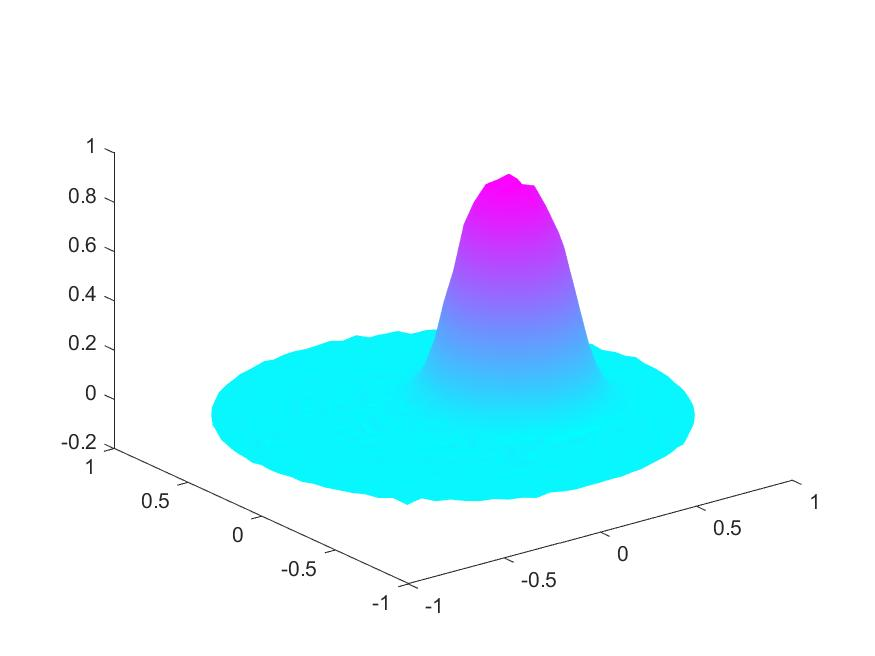
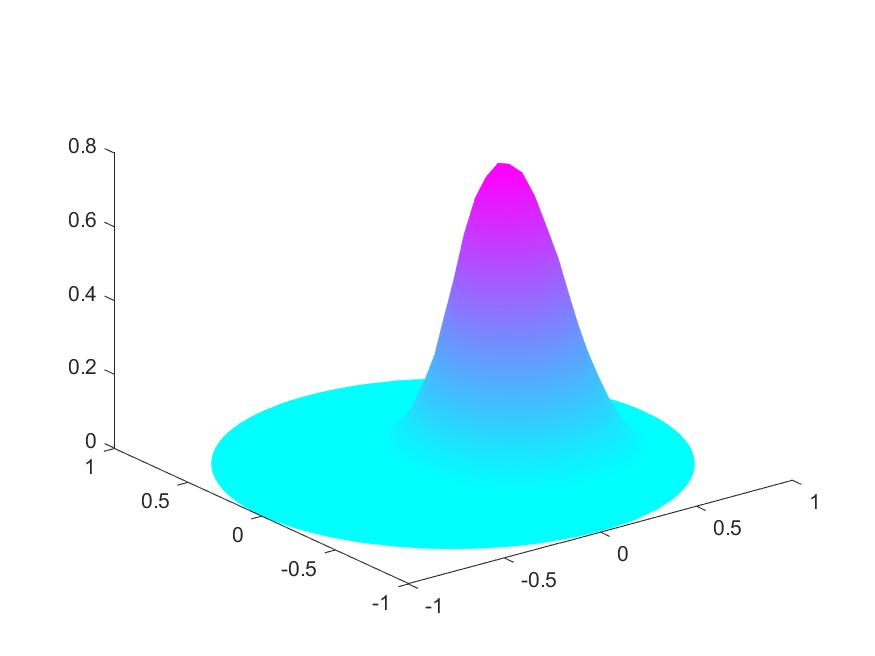
fixed rv method :)
it may not be correct, but we can't say with certainty that it's incorrect

diff --git a/FEM_Assign1/Code/ConvectionMatrixRV.m b/FEM_Assign1/Code/ConvectionMatrixRV.m
@@ -2,6 +2,7 @@ function convectionMatrix = ConvectionMatrixRV(p, t, u, r)
     np=size(p,2); nt=size(t,2); 
     convectionMatrix=sparse(np,np);
     normFac = NormalizationFactor(p, t, u);
+    ekv = zeros(np, 1);
     for i=1:nt 
         nodeIndices=t(1:3,i); 
         x=p(1,nodeIndices); y=p(2,nodeIndices); 
@@ -11,11 +12,21 @@ function convectionMatrix = ConvectionMatrixRV(p, t, u, r)
         betak = ElementBetaK(x, y);
         rk = max(r(nodeIndices));
         ek = MeshArtificialViscosity(hk, betak, rk, normFac);
-                
-        subMatrix=(b*b')*(c+c')*area*ek;
+        ekv(nodeIndices) = max(ekv(nodeIndices), ek);
+                        
+        subMatrix=((b*b')+(c*c'))*area*ek;
         
         convectionMatrix(nodeIndices,nodeIndices)=convectionMatrix(nodeIndices,nodeIndices)+subMatrix;
     end
+    
+    figure(9);
+    pdesurf(p, t, ekv);
+    hold on;
+    line([0,1.5],[0,0],[0,0],'Color','red', 'LineWidth', 2);
+    line([0,0],[0,1.5],[0,0],'Color','green', 'LineWidth', 2);
+    line([0,0],[0,0],[0,1.5],'Color','blue', 'LineWidth', 2);
+    hold off;
+    title("Artificial viscosity coeff");
 end
 
 function hk = ElementMeshSize(x, y)

diff --git a/FEM_Assign1/Code/SolverRV.m b/FEM_Assign1/Code/SolverRV.m
@@ -11,22 +11,12 @@ function [U, M] = SolverRV(p, t, xiInitial, timeStep, numIters)
     r = zeros(size(t,2), 1);
     
     for i=1:numIters
-        RV = ConvectionMatrixRV(p, t, xi, r)*0;
+        RV = ConvectionMatrixRV(p, t, xi, r);
         A = 1/2*C + 1/timeStep*M + 1/2*RV;
         B = -1/2*C + 1/timeStep*M - 1/2*RV;
         bb = B*xi;
         xi_new = A\bb;
         r = Residual(p, t, xi_new, xi, timeStep);
-        
-        figure(9);
-        pdesurf(p, t, r);
-        hold on;
-        line([0,1.5],[0,0],[0,0],'Color','red', 'LineWidth', 2);
-        line([0,0],[0,1.5],[0,0],'Color','green', 'LineWidth', 2);
-        line([0,0],[0,0],[0,1.5],'Color','blue', 'LineWidth', 2);
-        hold off;
-        title("Residual");
-
         xi = xi_new;
         U(:,i+1)=xi;
     end
